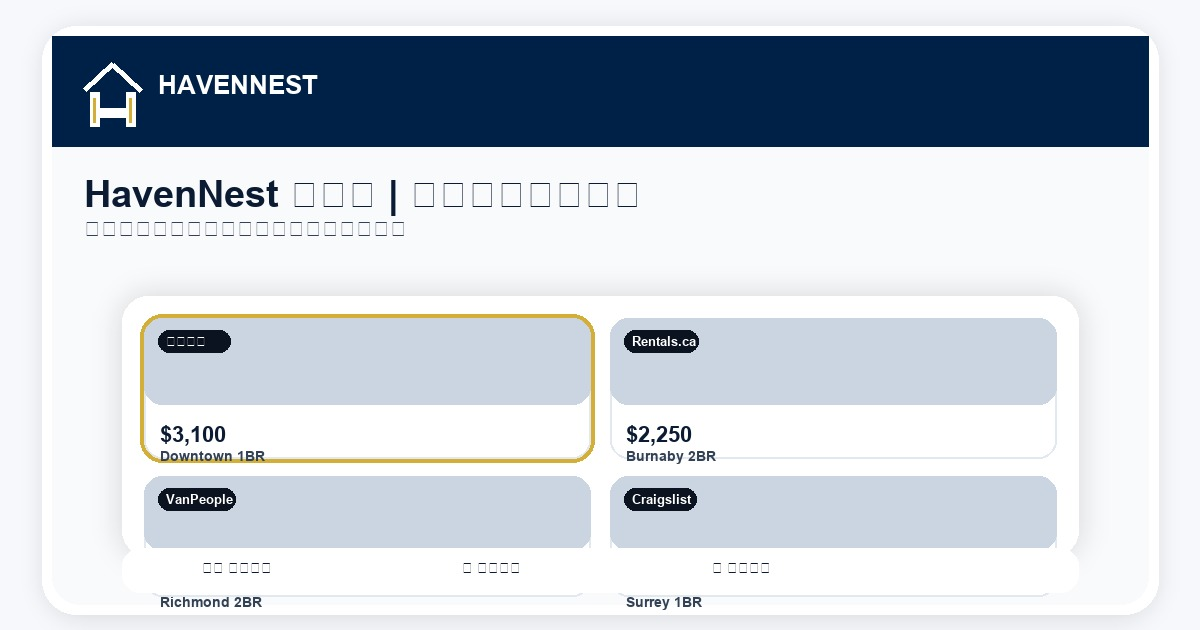
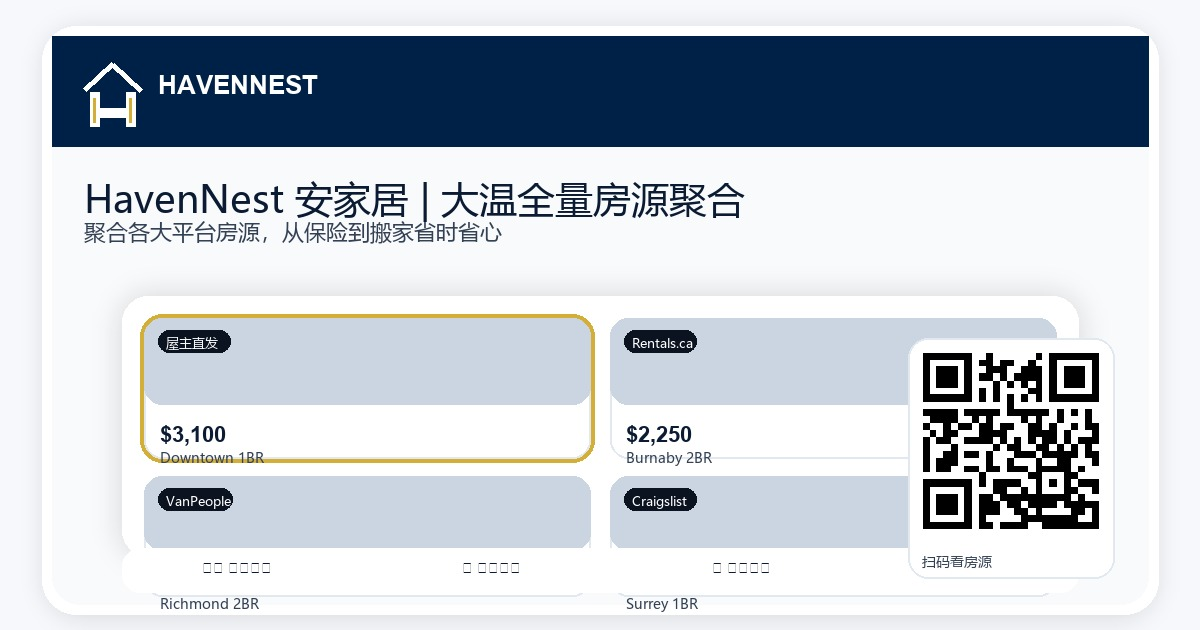
Add files via upload

diff --git a/style.css b/style.css
@@ -52,6 +52,15 @@ header {
     line-height: 1;
 }
 
+.logo-cn {
+    line-height: 1;
+    font-size: 1.05rem;
+    font-weight: 900;
+    color: var(--primary);
+    opacity: 0.92;
+    letter-spacing: 0.5px;
+}
+
 .lang-toggle {
     font-size: 0.9rem;
     font-weight: 600;
@@ -462,6 +471,10 @@ footer {
     .logo-text {
         font-size: 1.3rem;
         letter-spacing: 0.5px;
+    }
+    .logo-cn {
+        font-size: 0.95rem;
+        letter-spacing: 0.4px;
     }
     .logo-img {
         height: 40px;

diff --git a/index.html b/index.html
@@ -64,7 +64,7 @@
 <body>
 
 <header>
-    <a href="#" class="logo"><img src="logo.svg?v=20260320" alt="HavenNest" class="logo-img"><span class="logo-text">HAVENNEST</span></a>
+    <a href="#" class="logo"><img src="logo.svg?v=20260320" alt="HavenNest" class="logo-img"><span class="logo-text">HAVENNEST</span><span class="logo-cn">安家居</span></a>
     <div class="lang-toggle" onclick="toggleLang()" id="lang-btn">English / 中文</div>
 </header>
 

diff --git a/tools/generate_og_image.py b/tools/generate_og_image.py
@@ -1,4 +1,7 @@
 import os
+import io
+import urllib.parse
+import urllib.request
 from PIL import Image, ImageDraw, ImageFont, ImageFilter
 
 
@@ -63,13 +66,32 @@ def main():
         font_price = ImageFont.load_default()
         font_meta = ImageFont.load_default()
 
+    def try_cn_font(size, bold=False):
+        candidates = [
+            ("msyh.ttc", 0),
+            ("msyhbd.ttc", 0),
+            ("simhei.ttf", 0),
+            ("simsun.ttc", 0),
+        ]
+        for name, idx in candidates:
+            try:
+                return ImageFont.truetype(name, size, index=idx)
+            except Exception:
+                pass
+        return font_title if bold else font_sub
+
+    font_title_cn = try_cn_font(38, bold=True)
+    font_sub_cn = try_cn_font(22, bold=False)
+    font_meta_cn = try_cn_font(14, bold=False)
+    font_tag_cn = try_cn_font(13, bold=True)
+
     d.text((logo_x + 74, screen_y0 + 34), "HAVENNEST", fill=(255, 255, 255), font=font_brand)
 
     text_x = screen_x0 + 32
     title_y = screen_y0 + header_h + 26
     sub_y = title_y + 44
-    d.text((text_x, title_y), "HavenNest 安家居 | 大温全量房源聚合", fill=(11, 27, 51), font=font_title)
-    d.text((text_x, sub_y), "聚合各大平台房源，从保险到搬家省时省心", fill=slate, font=font_sub)
+    d.text((text_x, title_y), "HavenNest 安家居 | 大温全量房源聚合", fill=(11, 27, 51), font=font_title_cn)
+    d.text((text_x, sub_y), "聚合各大平台房源，从保险到搬家省时省心", fill=slate, font=font_sub_cn)
 
     container_y = sub_y + 80
     container_x0 = screen_x0 + 70
@@ -99,11 +121,11 @@ def main():
         d.rounded_rectangle([x, y, x + w, y + h], radius=18, fill=(255, 255, 255), outline=(226, 232, 240), width=2)
         img_h = int(h * 0.62)
         d.rounded_rectangle([x, y, x + w, y + img_h], radius=18, fill=(203, 213, 225))
-        pill_w = max(72, 10 + int(d.textlength(tag, font=font_tag)))
+        pill_w = max(72, 10 + int(d.textlength(tag, font=font_tag_cn)))
         d.rounded_rectangle([x + 14, y + 12, x + 14 + pill_w, y + 34], radius=11, fill=(11, 18, 32, 180))
-        d.text((x + 22, y + 16), tag, fill=(255, 255, 255), font=font_tag)
+        d.text((x + 22, y + 16), tag, fill=(255, 255, 255), font=font_tag_cn)
         d.text((x + 16, y + img_h + 18), price, fill=(11, 27, 51), font=font_price)
-        d.text((x + 16, y + img_h + 44), meta, fill=slate, font=font_meta)
+        d.text((x + 16, y + img_h + 44), meta, fill=slate, font=font_meta_cn)
 
     x1 = grid_x0
     x2 = grid_x0 + cell_w + col_gap
@@ -121,8 +143,31 @@ def main():
     d.text((container_x0 + 340, icons_y + 12), "📦 搬家服务", fill=(11, 27, 51), font=font_meta)
     d.text((container_x0 + 590, icons_y + 12), "🧹 清洁服务", fill=(11, 27, 51), font=font_meta)
 
+    qr_data = "https://havennestapp.com"
+    try:
+        qs = urllib.parse.urlencode({"size": "260x260", "data": qr_data})
+        qr_url = f"https://api.qrserver.com/v1/create-qr-code/?{qs}"
+        with urllib.request.urlopen(qr_url, timeout=10) as resp:
+            qr_png = resp.read()
+        qr = Image.open(io.BytesIO(qr_png)).convert("RGB")
+        qr = qr.resize((178, 178), Image.Resampling.NEAREST)
+
+        qr_pad = 14
+        qr_bg_w = qr.size[0] + qr_pad * 2
+        qr_bg_h = qr.size[1] + qr_pad * 2 + 34
+        qr_x1 = screen_x1 - 34
+        qr_y1 = screen_y1 - 26
+        qr_x0 = qr_x1 - qr_bg_w
+        qr_y0 = qr_y1 - qr_bg_h
+
+        d.rounded_rectangle([qr_x0, qr_y0, qr_x1, qr_y1], radius=20, fill=(255, 255, 255), outline=(226, 232, 240), width=2)
+        img.paste(qr, (qr_x0 + qr_pad, qr_y0 + qr_pad))
+        d.text((qr_x0 + qr_pad, qr_y1 - 26), "扫码看房源", fill=slate, font=font_meta_cn)
+    except Exception:
+        pass
+
     out_path = os.path.join(os.path.dirname(os.path.dirname(__file__)), "og-image.jpg")
-    img.save(out_path, "JPEG", quality=92, optimize=True, progressive=True)
+    img.save(out_path, "JPEG", quality=92, optimize=True, progressive=False)
 
 
 if __name__ == "__main__":
